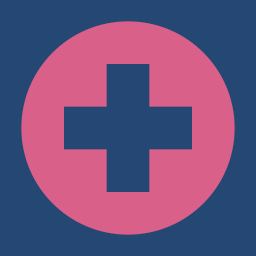
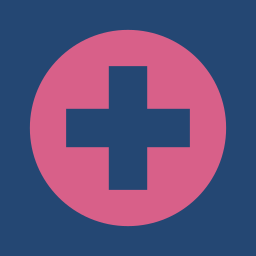
patterns updated

Changed region(s): [[0.0625, 0.0625, 0.9375, 0.9375], [0.25, 0.25, 0.75, 0.75]]

diff --git a/data/patterns/generate_pattern.py b/data/patterns/generate_pattern.py
@@ -20,13 +20,24 @@ class MultiSquarePattern:
         self.color2 = color2
 
     def save(self, filename):
-        dwg = svgwrite.Drawing(filename, size=('120', '120'))
-        dwg.add(dwg.rect((0, 0), (120, 120), fill=self.color1))
-        dwg.add(dwg.rect((30, 30), (60, 60), fill=self.color2))
-        dwg.add(dwg.rect((15, 15), (30, 30), fill=self.color2))
-        dwg.add(dwg.rect((75, 15), (30, 30), fill=self.color2))
-        dwg.add(dwg.rect((15, 75), (30, 30), fill=self.color2))
-        dwg.add(dwg.rect((75, 75), (30, 30), fill=self.color2))
+        dim = 120
+        inner_rect_dim = 55
+        border_rect_dim = 25
+        border_rect_offset = 18
+
+        dwg = svgwrite.Drawing(filename, size=(str(dim), str(dim)))
+        dwg.add(dwg.rect((0, 0), (dim, dim), fill=self.color1))
+        dwg.add(dwg.rect(((dim - inner_rect_dim)//2, (dim - inner_rect_dim)//2),
+                         (inner_rect_dim, inner_rect_dim),
+                         fill=self.color2))
+        dwg.add(dwg.rect((border_rect_offset, border_rect_offset),
+                         (border_rect_dim, border_rect_dim), fill=self.color2))
+        dwg.add(dwg.rect((dim - border_rect_dim - border_rect_offset, border_rect_offset),
+                         (border_rect_dim, border_rect_dim), fill=self.color2))
+        dwg.add(dwg.rect((border_rect_offset, dim - border_rect_dim - border_rect_offset),
+                         (border_rect_dim, border_rect_dim), fill=self.color2))
+        dwg.add(dwg.rect((dim - border_rect_dim - border_rect_offset, dim - border_rect_dim - border_rect_offset),
+                         (border_rect_dim, border_rect_dim), fill=self.color2))
         dwg.save()
 
 class PlusPattern:
@@ -35,11 +46,23 @@ class PlusPattern:
         self.color2 = color2
 
     def save(self, filename):
-        dwg = svgwrite.Drawing(filename, size=('120', '120'))
-        dwg.add(dwg.rect((0, 0), (120, 120), fill=self.color1))
-        dwg.add(dwg.circle((60, 60), 50, fill=self.color2))
-        dwg.add(dwg.rect((50, 30), (20, 60), fill=self.color1))
-        dwg.add(dwg.rect((30, 50), (60, 20), fill=self.color1))
+        dim = 120
+        dwg = svgwrite.Drawing(filename, size=(str(dim), str(dim)))
+
+        R = 46
+        rect_width = 58
+        rect_height = 18
+
+        dwg.add(dwg.rect((0, 0), (dim, dim),
+                         fill=self.color1))
+        dwg.add(dwg.circle((dim//2, dim//2), R,
+                           fill=self.color2))
+        dwg.add(dwg.rect(((dim - rect_height)//2, (dim - rect_width)//2),
+                          (rect_height, rect_width),
+                         fill=self.color1))
+        dwg.add(dwg.rect(((dim - rect_width)//2, (dim - rect_height)//2),
+                          (rect_width, rect_height),
+                         fill=self.color1))
         dwg.save()
 
 class RoundCrossPattern:
@@ -48,15 +71,26 @@ class RoundCrossPattern:
         self.color2 = color2
 
     def save(self, filename):
-        dwg = svgwrite.Drawing(filename, size=('120', '120'))
-        dwg.add(dwg.rect((0, 0), (120, 120), fill=self.color1))
+        dim = 120
+        dwg = svgwrite.Drawing(filename, size=(str(dim), str(dim)))
+        dwg.add(dwg.rect((0, 0), (dim, dim), fill=self.color1))
 
-        dwg.add(dwg.circle((30, 30), 18, fill=self.color2))
-        dwg.add(dwg.circle((90, 30), 18, fill=self.color2))
-        dwg.add(dwg.circle((30, 90), 18, fill=self.color2))
-        dwg.add(dwg.circle((90, 90), 18, fill=self.color2))
-        dwg.add(dwg.rect((20, 47.5), (80, 25), fill=self.color2, transform="rotate(45,60,60)"))
-        dwg.add(dwg.rect((20, 47.5), (80, 25), fill=self.color2, transform="rotate(-45,60,60)"))
+        R = 17
+        R_offset = 35
+        rect_width = 18
+
+        dwg.add(dwg.circle((R_offset, R_offset), R, fill=self.color2))
+        dwg.add(dwg.circle((dim - R_offset, R_offset), R, fill=self.color2))
+        dwg.add(dwg.circle((R_offset, dim - R_offset), R, fill=self.color2))
+        dwg.add(dwg.circle((dim - R_offset, dim - R_offset), R, fill=self.color2))
+        dwg.add(dwg.rect((R_offset-R, dim//2 - rect_width//2),
+                         (dim-2*(R_offset-R), rect_width),
+                         fill=self.color2,
+                         transform="rotate(45,60,60)"))
+        dwg.add(dwg.rect((R_offset-R, dim//2 - rect_width//2),
+                         (dim-2*(R_offset-R), rect_width),
+                         fill=self.color2,
+                         transform="rotate(-45,60,60)"))
         dwg.save()
 
 class CrossPattern:
@@ -65,10 +99,20 @@ class CrossPattern:
         self.color2 = color2
 
     def save(self, filename):
-        dwg = svgwrite.Drawing(filename, size=('120', '120'))
-        dwg.add(dwg.rect((0, 0), (120, 120), fill=self.color1))
+        dim = 120
+        dwg = svgwrite.Drawing(filename, size=(str(dim), str(dim)))
+        dwg.add(dwg.rect((0, 0), (dim, dim), fill=self.color1))
 
-        points = ((15,15),(45,15),(60, 45),(60, 60),(45, 60),(15,45))
+        border_offset = 20
+        offset1 = 14
+        offset2 = 13
+        points = ((border_offset,border_offset),
+                  (dim//2-offset1,border_offset),
+                  (dim//2, dim//2-offset2),
+                  (dim//2, dim//2),
+                  (dim//2-offset2, dim//2),
+                  (border_offset,dim//2-offset1))
+
         dwg.add(dwg.polygon(points, fill=self.color2))
         dwg.add(dwg.polygon(points, fill=self.color2, transform="rotate(90,60,60)"))
         dwg.add(dwg.polygon(points, fill=self.color2, transform="rotate(180,60,60)"))
@@ -139,18 +183,34 @@ class CircleSubtractPattern2:
         self.color2 = color2
 
     def save(self, filename):
-        dwg = svgwrite.Drawing(filename, size=('120', '120'))
+        dim = 120
+        dwg = svgwrite.Drawing(filename, size=(str(dim), str(dim)))
         clip_path = dwg.defs.add(dwg.clipPath(id='clipsq'))
-        clip_path.add(dwg.rect((0, 0), (120, 120)))
+        clip_path.add(dwg.rect((0, 0), (dim, dim)))
         defs_g = dwg.defs.add(dwg.g(clip_path='url(#clipsq)'))
 
-        defs_g.add(dwg.rect((0, 0), (120, 120), fill=self.color1))
-        defs_g.add(dwg.rect((5, 5), (110, 110), fill=self.color2, transform="rotate(45,60,60)"))
-        defs_g.add(dwg.circle((60, -10), 30, fill=self.color1))
-        defs_g.add(dwg.circle((-10, 60), 30, fill=self.color1))
-        defs_g.add(dwg.circle((130, 60), 30, fill=self.color1))
-        defs_g.add(dwg.circle((60, 130), 30, fill=self.color1))
-        defs_g.add(dwg.rect((40, 40), (40, 40), fill=self.color1))
+        R = 32
+        R_offset = 8
+        rotated_rect_dim = 105
+        inner_rect_dim = 40
+
+        defs_g.add(dwg.rect((0, 0), (dim, dim),
+                            fill=self.color1))
+        defs_g.add(dwg.rect(((dim-rotated_rect_dim)//2, (dim-rotated_rect_dim)//2),
+                             (rotated_rect_dim, rotated_rect_dim),
+                            fill=self.color2,
+                            transform="rotate(45,"+str(dim//2)+","+str(dim//2)+")"))
+        defs_g.add(dwg.circle((dim//2, -R_offset), R,
+                              fill=self.color1))
+        defs_g.add(dwg.circle((-R_offset, dim//2), R,
+                              fill=self.color1))
+        defs_g.add(dwg.circle((dim+R_offset, dim//2), R,
+                              fill=self.color1))
+        defs_g.add(dwg.circle((dim//2, dim+R_offset), R,
+                              fill=self.color1))
+        defs_g.add(dwg.rect(((dim-inner_rect_dim)//2, (dim-inner_rect_dim)//2),
+                             (inner_rect_dim, inner_rect_dim),
+                            fill=self.color1))
 
         dwg.add(dwg.use(defs_g, insert=(0, 0)))
         dwg.save()

diff --git a/monitor.py b/monitor.py
@@ -63,6 +63,7 @@ if __name__ == '__main__':
                     ui.update()
 
         pygame.display.update()
+        time.sleep(0.5)
 
 
 
